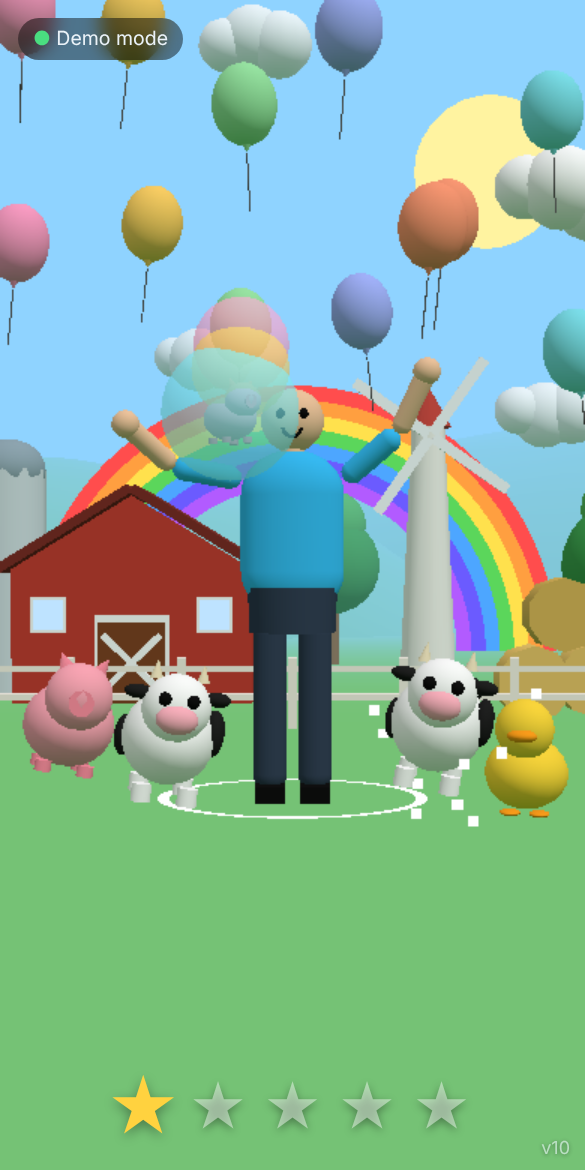
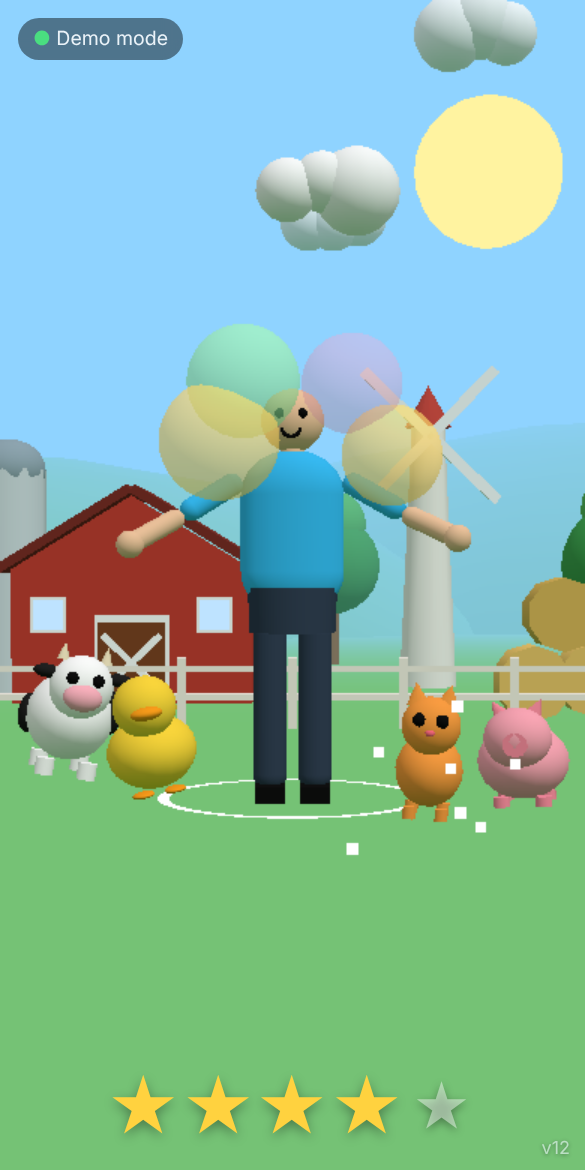
Rename in-game title to Fun4two, remove balloons (v12)
Claude-Session: https://claude.ai/code/session_01TzPuMdDgmbyWMfGZSiAzuw

diff --git a/index.html b/index.html
@@ -4,7 +4,7 @@
 <meta charset="utf-8">
 <meta name="viewport" content="width=device-width, initial-scale=1, maximum-scale=1, user-scalable=no, viewport-fit=cover">
 <meta name="theme-color" content="#101820">
-<title>Fun4Two – Mirror Avatar</title>
+<title>Fun4two</title>
 <style>
   :root { color-scheme: dark; }
   * { box-sizing: border-box; -webkit-tap-highlight-color: transparent; }
@@ -47,13 +47,13 @@
 <canvas id="scene"></canvas>
 
 <div id="preview"><video id="video" playsinline muted autoplay></video><canvas id="overlay"></canvas></div>
-<div id="version">v11</div>
+<div id="version">v12</div>
 <div id="wake">☀</div>
 <div id="stars"><span>★</span><span>★</span><span>★</span><span>★</span><span>★</span></div>
 <div id="status" class="warn">Not started</div>
 
 <div id="menu">
-  <h1>Mirror Avatar</h1>
+  <h1>Fun4two</h1>
   <p>Stand back so your head, shoulders and arms are visible to the front camera. Pop the bubbles with your hands and wave to make the animals dance!</p>
   <button id="startBtn">Start camera</button>
   <button id="demoBtn" class="secondary">Demo without camera</button>
@@ -663,7 +663,7 @@ for (let i = 0; i < 6; i++) {
 }
 
 /* ------------------------------------------------------------------ *
- *  5-star celebrations: fireworks at night, rainbow + balloons + confetti by day
+ *  5-star celebrations: fireworks at night, rainbow + confetti by day
  * ------------------------------------------------------------------ */
 let skyFlash = 0, partyT = 0;
 const flashCol = new THREE.Color(0xffffff);
@@ -749,7 +749,7 @@ function updateFireworks(dt) {
   fGeo.attributes.position.needsUpdate = true; fGeo.attributes.color.needsUpdate = true;
 }
 
-// daytime surprise: a rainbow grows over the farm, balloons float up, confetti rains and the animals party
+// daytime surprise: a rainbow grows over the farm, confetti rains and the animals party
 const RAINBOW = [0xff4d4d, 0xff9f40, 0xffe14d, 0x5bd65b, 0x4da6ff, 0x6b5bff, 0xb25bff];
 let rainbow = null;
 function startRainbow() {
@@ -763,18 +763,6 @@ function startRainbow() {
   g.position.set(0, 0, -12); g.scale.y = 0.01; scene.add(g);
   rainbow = { g, mats, t: 0 };
 }
-const balloons = [];
-function startBalloons() {
-  for (let i = 0; i < 6; i++) {
-    const col = PASTELS[i % PASTELS.length], g = new THREE.Group();
-    g.add(part(SPH, col, 0.17, 0.21, 0.17, 0, 0, 0));
-    g.add(part(CONE, col, 0.03, 0.05, 0.03, 0, -0.22, 0, Math.PI));
-    g.add(part(CYL, 0x555555, 0.004, 0.3, 0.004, 0, -0.4, 0));
-    const x0 = -1.3 + i * 0.52 + (Math.random() - 0.5) * 0.2;
-    g.position.set(x0, 0.3, -2 + Math.random() * 1.4); scene.add(g);
-    balloons.push({ g, x0, vy: 0.8 + Math.random() * 0.5, ph: Math.random() * 6.28, t: -i * 0.15 });
-  }
-}
 let confettiT = 0;
 function updateDayFX(dt) {
   if (rainbow) {
@@ -784,12 +772,6 @@ function updateDayFX(dt) {
     const op = r.t > 5 ? Math.max(0, 1 - (r.t - 5)) : 1;
     r.mats.forEach((m) => { m.opacity = op; });
     if (r.t > 6) { scene.remove(r.g); r.g.children.forEach((m) => { m.geometry.dispose(); m.material.dispose(); }); rainbow = null; }
-  }
-  for (const b of [...balloons]) {
-    b.t += dt; if (b.t < 0) { b.g.visible = false; continue; } b.g.visible = true;
-    b.g.position.y += b.vy * dt; b.g.position.x = b.x0 + Math.sin(b.t * 1.5 + b.ph) * 0.1;
-    b.g.rotation.z = Math.sin(b.t * 1.5 + b.ph) * 0.12;
-    if (b.g.position.y > 7) { scene.remove(b.g); balloons.splice(balloons.indexOf(b), 1); }
   }
   if (partyT > 0) {
     confettiT -= dt;
@@ -806,7 +788,7 @@ function celebrate() {
     const halfW = dist * tanH * camera.aspect * 0.8, top = Math.min(5.2, 0.95 + dist * tanH - 0.5), lo = 2.4;
     [0, 0.5, 1.0, 1.5, 2.1].forEach((d) => fwQueue.push({ t: d, x: (Math.random() * 2 - 1) * halfW, ty: lo + Math.random() * Math.max(0, top - lo) }));
   } else {                                                    // day: surprise!
-    startRainbow(); startBalloons(); partyT = 5;
+    startRainbow(); partyT = 5;
   }
 }
 function updateFX(dt) { updateFireworks(dt); updateDayFX(dt); }

diff --git a/README.md b/README.md
@@ -1,10 +1,10 @@
-# Fun4Two – Mirror Avatar
+# Fun4two
 
 A tiny 3D game for toddlers where **your own body is the controller**. Point the phone's front camera at your child, and a cartoon avatar on a farm mirrors their arm movements. Pop bubbles, free animals, and watch the day turn into night.
 
 The whole game is a single file, [`index.html`](index.html). No build step, no install, no app store.
 
-| Day (with the 5-star rainbow surprise) | Night (with fireworks) |
+| Day | Night |
 |---|---|
 | ![Day](docs/day.png) | ![Night](docs/night.png) |
 
@@ -35,7 +35,7 @@ There is also a **Demo without camera** button that makes the avatar wave on its
 
 ### Stars and celebrations
 Every pop or catch lights one of five stars at the bottom. The fifth star sets off a celebration:
-- **During the day:** a rainbow grows over the farm, balloons float up, confetti rains and all the animals party.
+- **During the day:** a rainbow grows over the farm, confetti rains and all the animals party.
 - **At night:** five fireworks shoot up and burst, each lighting up the whole sky.
 
 ### Sunset and night (about 10s + 30s)
